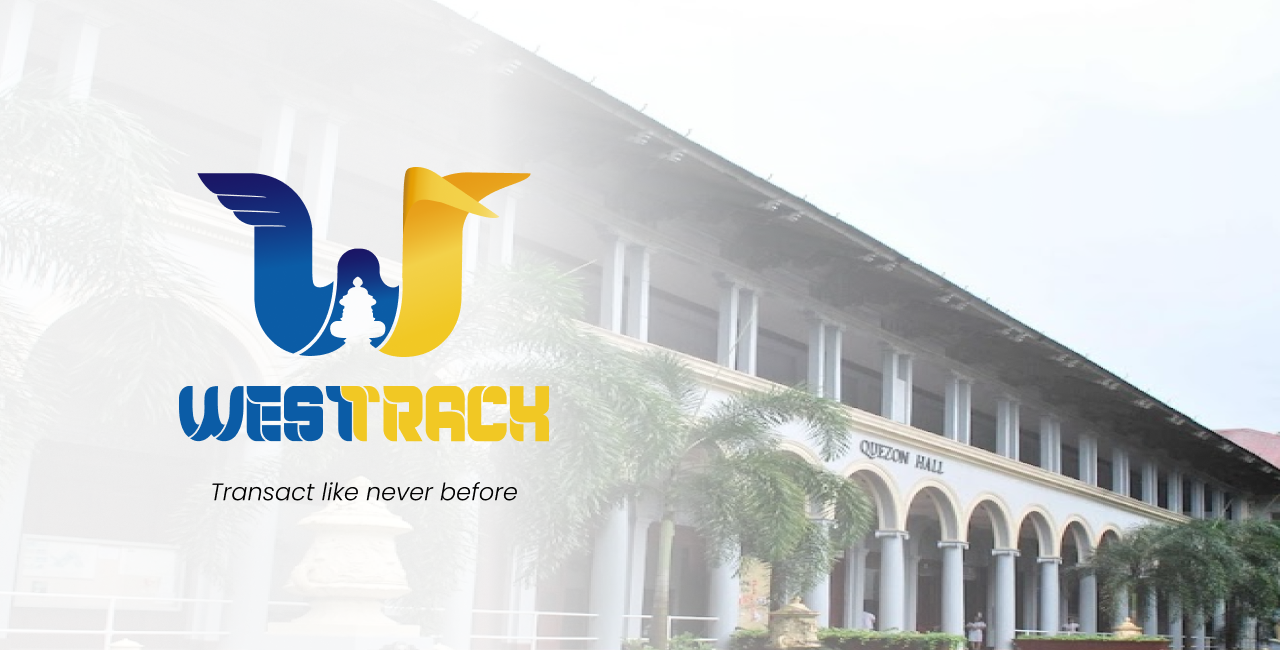
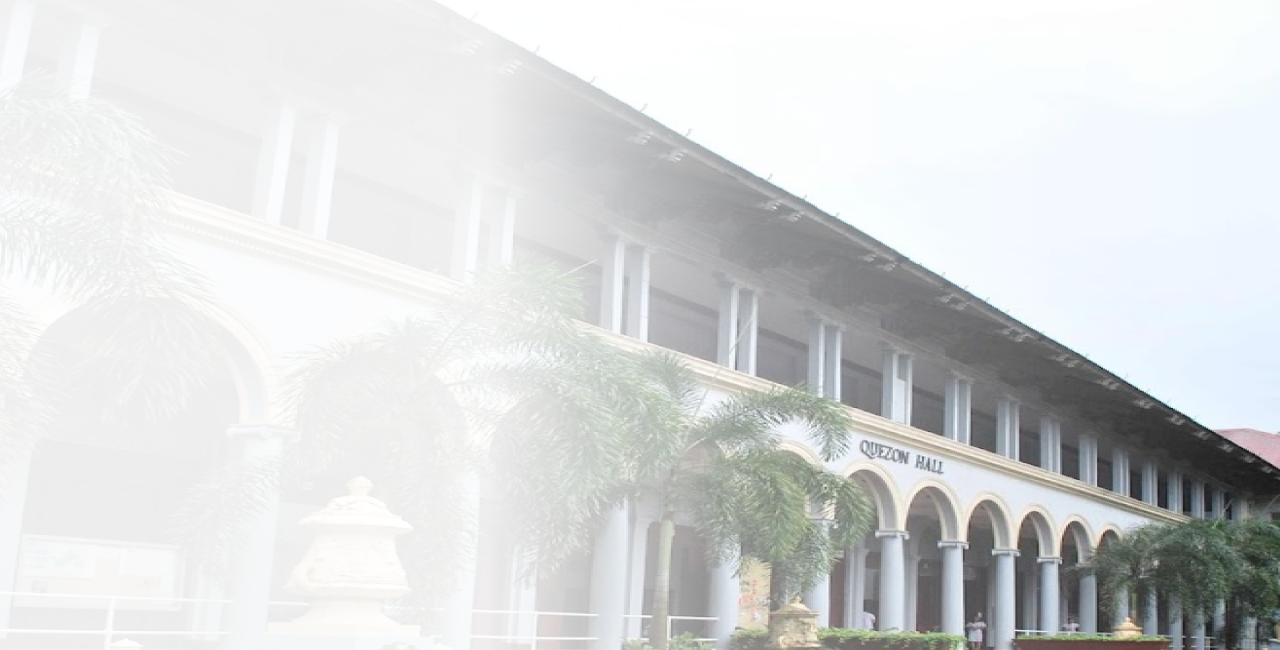
Updated landing page fr

Changed region(s): [[0.1562, 0.2462, 0.4062, 0.5538], [0.125, 0.5846, 0.4375, 0.6769], [0.1562, 0.7385, 0.4062, 0.7692]]

diff --git a/src/app/page.tsx b/src/app/page.tsx
@@ -2,22 +2,22 @@ import Image from "next/image";
 import Header from "./components/header";
 import RequestBtn from "./components/request";
 import ContentLoader from "./components/content-loader";
+import TeamSection from "./components/teamSection"; 
+import LandingSection from "./components/landingSection";
 import { checking } from "@/lib/firebase";
+import Footer from "./components/Footer";
 
 export default function Home() {
   return (
     <>
       <Header />
-      <RequestBtn/>
-      <div>
-        <Image
-          src="/images/Home_bg.png"
-          alt="background"
-          layout="responsive"
-          width={1000}
-          height={100}
-          />
-      </div>
+      <RequestBtn
+      text="Request a Document"
+      isActive={true}
+      redirectTo="/request-document" // The URL to navigate to
+      />
+      <LandingSection/>
+
       {/* Features Section */}
       <ContentLoader
         header="Fast and Reliable"
@@ -37,8 +37,9 @@ export default function Home() {
         imgSrc="/icons/secure.png"
         imgPos="right"
       />
+
       {/* Trusted Offices Section */}
-      <div style={{ backgroundColor: "#133683", color: "#ffffff", padding: "2rem", height:"700"}}>
+      <div style={{ maxHeight:"700px", backgroundColor: "#133683", color: "#ffffff", padding: "2rem", height:"700"}}>
         <h2 style={{ textAlign: "center", marginBottom: "1.5rem" }}>
           Trusted by Administrative Offices
         </h2>
@@ -67,7 +68,7 @@ export default function Home() {
       </div>
       
       {/* Testimonial Section */}
-      <div style={{ backgroundColor: "#f9f9f9", padding: "2rem 1rem", textAlign: "center" }}>
+      <div style={{ maxHeight:"700px", backgroundColor: "#f9f9f9", padding: "2rem 1rem", textAlign: "center" }}>
         <h2 style={{ color: "#133683", marginBottom: "1rem" }}>What Users Think</h2>
         <p style={{ marginBottom: "2rem" }}>
           Explore honest reviews and ratings from users who’ve experienced our seamless process firsthand.
@@ -84,7 +85,7 @@ export default function Home() {
           }}
         >
           <Image
-            src="/images/profile_pic.jpg"
+            src="/images/member.png.jpg"
             alt="User Profile"
             width={60}
             height={60}
@@ -106,7 +107,23 @@ export default function Home() {
           </p>
         </div>
       </div>
+      
+      {/* About Section */}
+      <div style={{ maxHeight:"700px", backgroundColor: "#FFD700", padding: "3rem 1rem", textAlign: "center" }}>
+        <h2 style={{ fontWeight: "bold", marginBottom: "1.5rem" }}>About WESTTRACK</h2>
+        <p style={{ maxWidth: "800px", margin: "0 auto", marginBottom: "2rem", lineHeight: "1.5" }}>
+        Lorem ipsum dolor sit amet, consectetur adipiscing elit, sed do eiusmod tempor incididunt 
+        ut labore et dolore magna aliqua. t enim ad minim veniam, quis nostrud exercitation 
+        ullamco laboris nisi ut aliquip ex ea commodo consequat.
+        </p>
+      </div>
 
+      
+      {/* Team Section */}
+      <TeamSection />
+
+      {/* Footer */}
+      <Footer />
       {checking()}
     </>
   );

diff --git a/src/app/components/footer.tsx b/src/app/components/footer.tsx
@@ -1,0 +1,100 @@
+import React from "react";
+import Image from "next/image";
+
+const Footer = () => {
+  return (
+    <footer
+      style={{
+        backgroundColor: "#f5f5f5",
+        padding: "1rem 2rem",
+        borderTop: "2px solid #FFD700",
+        textAlign: "center",
+        fontFamily: "Arial, sans-serif",
+      }}
+    >
+      <div
+        style={{
+          display: "flex",
+          justifyContent: "space-between",
+          alignItems: "center",
+          maxWidth: "1200px",
+          margin: "0 auto",
+        }}
+      >
+        {/* Logo and Tagline */}
+        <div style={{ display: "flex", alignItems: "center", gap: "0.5rem" }}>
+          <Image
+            src="./images/logo_icon.png"
+            alt="WestTrack Logo Icon"
+            width={40}
+            height={40}
+          />
+          <Image
+            src="./images/logo_name.png"
+            alt="WestTrack Logo Text"
+            width={120}
+            height={40}
+          />
+        </div>
+
+        {/* Tagline */}
+        <div style={{ textAlign: "left", marginTop: "0.5rem" }}>
+          <p style={{ margin: 0, fontStyle: "italic", color: "#333" }}>
+            Transact like never before
+          </p>
+        </div>
+
+        {/* Navigation Links */}
+        <div style={{ textAlign: "right" }}>
+          <ul
+            style={{
+              listStyle: "none",
+              margin: 0,
+              padding: 0,
+              display: "flex",
+              gap: "1.5rem",
+              fontSize: "14px",
+            }}
+          >
+            <li>
+              <a href="#home" style={{ textDecoration: "none", color: "#333" }}>
+                Home
+              </a>
+            </li>
+            <li>
+              <a href="#about" style={{ textDecoration: "none", color: "#333" }}>
+                About Us
+              </a>
+            </li>
+            <li>
+              <a
+                href="#notifications"
+                style={{ textDecoration: "none", color: "#333" }}
+              >
+                Notifications
+              </a>
+            </li>
+            <li>
+              <a href="#edit" style={{ textDecoration: "none", color: "#333" }}>
+                Edit a Document
+              </a>
+            </li>
+          </ul>
+        </div>
+      </div>
+
+      {/* Copyright Section */}
+      <p
+        style={{
+          marginTop: "1rem",
+          fontSize: "14px",
+          color: "#666",
+        }}
+      >
+        © 2024 WESTTRACK. All rights reserved.
+      </p>
+    </footer>
+  );
+};
+
+export default Footer;

diff --git a/src/app/components/request.tsx b/src/app/components/request.tsx
@@ -1,20 +1,52 @@
+"use client";
+
+import { useRouter } from "next/navigation";
 import { Button } from "@/components/ui/button";
 
-function RequestBtn() {
-  return (
-    // <button
-    //   className="btn-floating btn-large waves-effect waves-light bg-red-600"
-    //   type="button"
-    // >
-    //   <p className="text-center text-white left-5 top-5">{text}</p>
-    // </button>
-    <Button
-      variant={"outline"}
-      className="rounded-full bg-yellow-500 absolute z-10"
-    >
-      Request Document
-    </Button>
-  );
+interface RequestBtnProps {
+  text: string;
+  isActive: boolean;
+  redirectTo: string; // The URL to navigate to
 }
 
-export default RequestBtn;
+export default function RequestBtn({ text, isActive, redirectTo }: RequestBtnProps) {
+  const router = useRouter();
+
+  const handleRedirect = () => {
+    router.push(redirectTo); // Navigate to the specified page
+  };
+
+  return (
+    <div
+      style={{
+        position: "absolute",
+        bottom: "20%",
+        right: "35%",
+        zIndex: 2,
+      }}
+    >
+      <Button
+        onClick={handleRedirect}
+        style={{
+          padding: "15px 30px",
+          backgroundColor: isActive ? "#FFD700" : "#ccc", // Change color based on active state
+          color: isActive ? "#000000" : "#888",
+          border: "10px",
+          borderRadius: "15px",
+          fontWeight: "medium",
+          cursor: isActive ? "pointer" : "not-allowed",
+          boxShadow: isActive ? "2px 2px 5px rgba(0, 0, 0, 0.3)" : "none",
+        }}
+        disabled={!isActive} // Disable button if not active
+        variant={"outline"}
+        className={`rounded-full absolute z-10 ${
+          isActive
+          ? "bg-homeLightBlueBG text-white border-transparent" // Active: No visible border
+          : "bg-westTrackGray text-black border-black border-opacity-[0.5]" // Inactive: Black border
+        }`}
+      >
+        {text}
+      </Button>
+    </div>
+  );
+}

diff --git a/src/app/components/teamSection.tsx b/src/app/components/teamSection.tsx
@@ -1,0 +1,72 @@
+import React from "react";
+import Image from "next/image";
+
+const teamMembers = [
+  {
+    name: "Mauricio",
+    position: "Role",
+    profileImg: "/images/member.png",
+  },
+  {
+    name: "Mherlie",
+    position: "Role",
+    profileImg: "/images/member.png",
+  },
+  {
+    name: "Gillie",
+    position: "Role",
+    profileImg: "/images/member.png",
+  },
+  {
+    name: "Dhominick",
+    position: "Role",
+    profileImg: "/images/member.png",
+  },
+  {
+    name: "Michael",
+    position: "Role",
+    profileImg: "/images/member.png",
+  },
+  {
+    name: "Mariane",
+    position: "Role",
+    profileImg: "/images/member.png",
+  },
+];
+
+const TeamSection = () => {
+  return (
+    <div style={{ backgroundColor: "#f5f5f5", padding: "3rem 1rem", textAlign: "center" }}>
+      <h2 style={{ fontWeight: "bold", marginBottom: "2rem" }}>Meet the Team</h2>
+      <div
+        style={{
+          display: "grid",
+          gridTemplateColumns: "repeat(auto-fit, minmax(150px, 1fr))",
+          gap: "2rem",
+          maxWidth: "800px",
+          margin: "0 auto",
+          justifyItems: "center",
+        }}
+      >
+        {teamMembers.map((member, index) => (
+          <div key={index} style={{ textAlign: "center" }}>
+            <Image
+              src={member.profileImg}
+              alt={member.name}
+              width={150}
+              height={150}
+              style={{
+                borderRadius: "50%",
+                marginBottom: "1rem",
+              }}
+            />
+            <p style={{ fontWeight: "bold" }}>{member.name}</p>
+            <p>{member.position}</p>
+          </div>
+        ))}
+      </div>
+    </div>
+  );
+};
+
+export default TeamSection;

diff --git a/src/app/components/landingSection.tsx b/src/app/components/landingSection.tsx
@@ -1,0 +1,62 @@
+import React from "react";
+import Image from "next/image";
+
+const LandingSection = () => {
+  return (
+    <header
+      style={{
+        position: "relative",
+        height: "700px", // Adjust height as needed
+        width: "100%",
+        overflow: "hidden",
+      }}
+    >
+      {/* Background Image */}
+      <Image
+        src="/images/Home_bg.png" // Ensure this image exists in the /public/images directory
+        alt="Background"
+        layout="fill"
+        objectFit="cover"
+        quality={100}
+      />
+
+      {/* Logo and Tagline */}
+      <div
+        style={{
+          position: "absolute",
+          top: "20%",
+          left: "15%",
+          display: "flex",
+          flexDirection: "column",
+          alignItems: "flex-start",
+          zIndex: 2,
+        }}
+      >
+        {/* Logo */}
+        <div>
+          <Image
+            src="/images/logo.png"
+            alt="WestTrack Logo"
+            width={350}
+            height={250}
+          />
+        </div>
+        
+        {/* Tagline */}
+        <p
+          style={{
+            margin: "25px 10%",
+            fontSize: "18px",
+            fontStyle: "italic",
+            color: "#000000",
+            textAlign: "center",
+          }}
+        >
+          Transact like never before
+        </p>
+      </div>
+    </header>
+  );
+};
+
+export default LandingSection;
